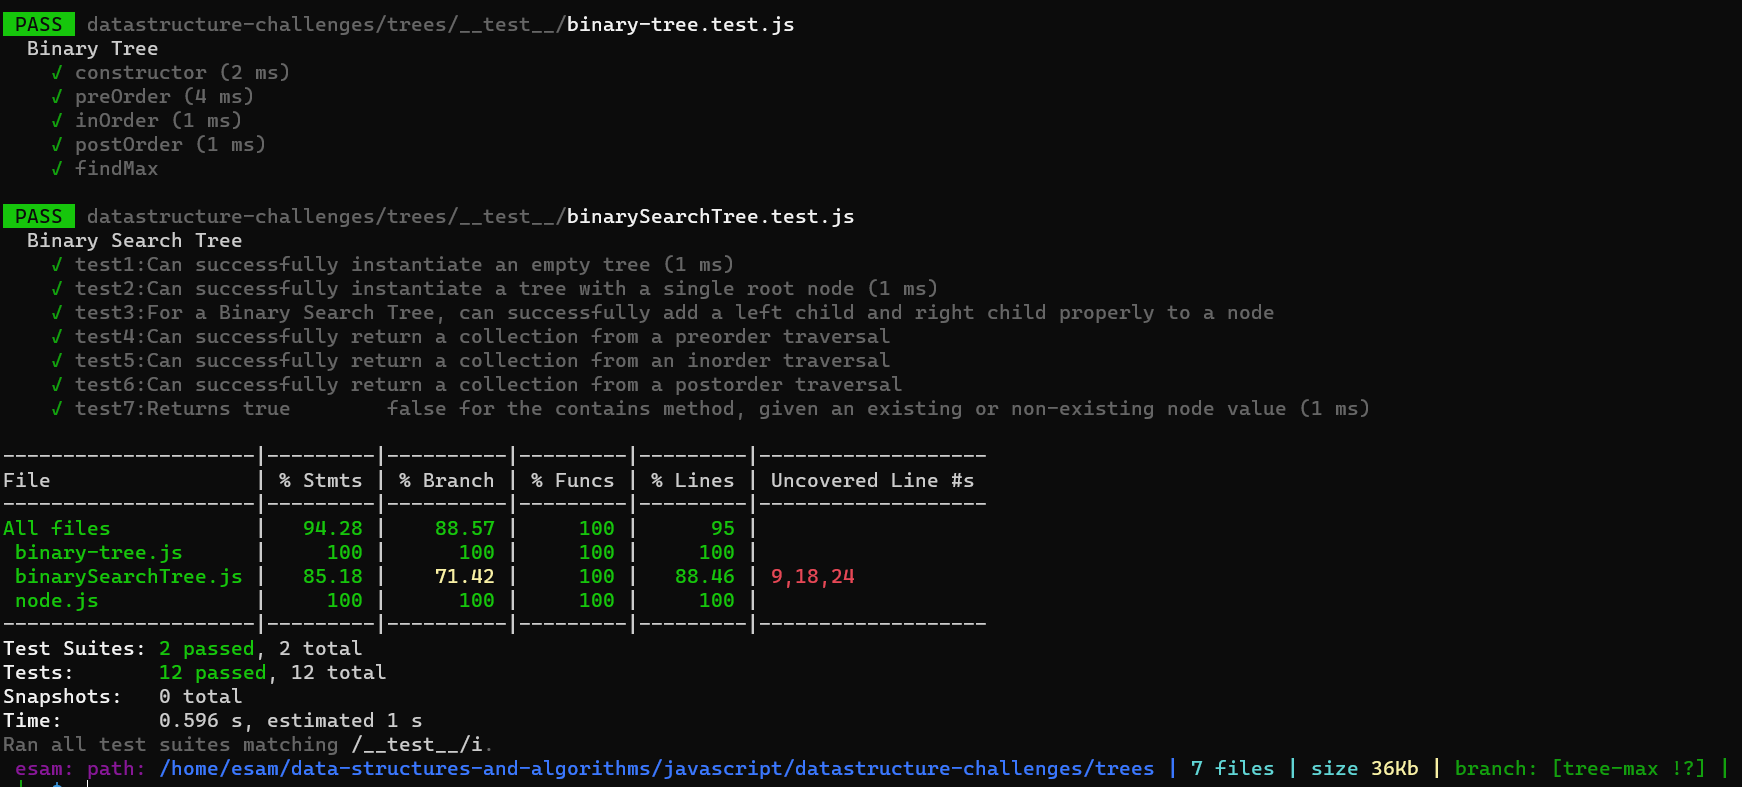
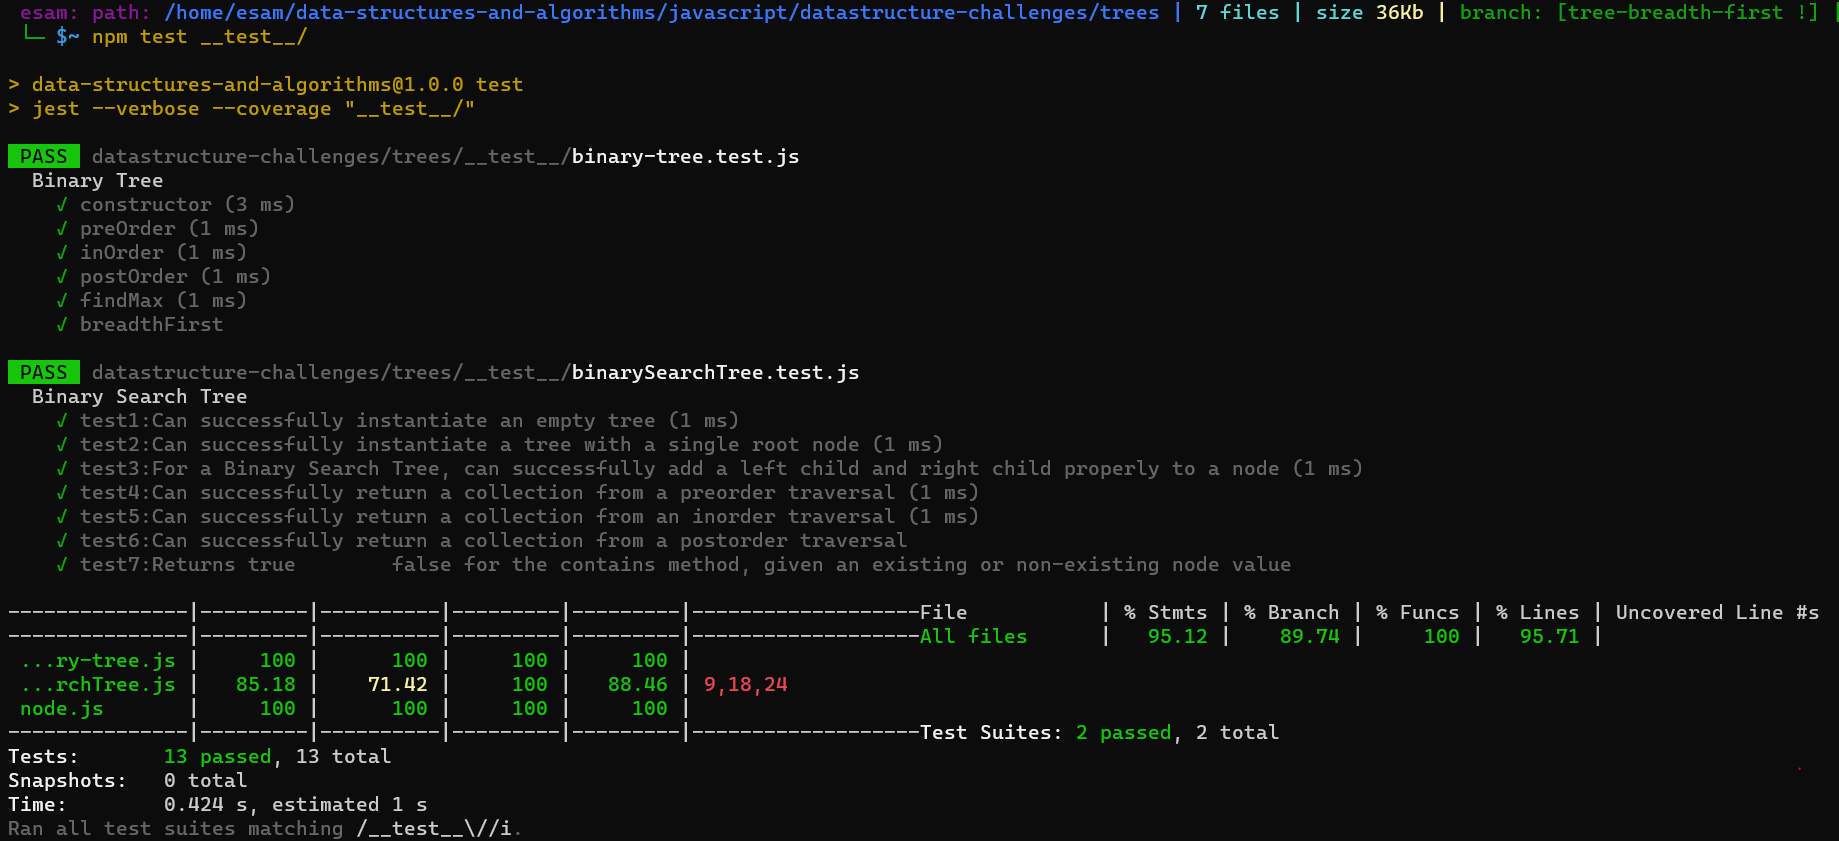
breadthFirst

diff --git a/javascript/datastructure-challenges/trees/index.js b/javascript/datastructure-challenges/trees/index.js
@@ -1,47 +1,10 @@
 'use strict';
 const BinaryTree = require('./binary-tree');
-const BinarySearchTree = require('./binarySearchTree');
+// const BinarySearchTree = require('./binarySearchTree');
 const Node = require('./node');
 
-////binary tree////////////////////////////////////////////////////////////////////////
-console.log('==================binary tree==================');
-let tree = null;
-
-let one = new Node(1);
-let two2 = new Node(2);
-let three = new Node(3);
-let four = new Node(4);
-let five5 = new Node(5);
-let six = new Node(6);
-let seven7 = new Node(7);
-let eight = new Node(8);
-let nine = new Node(9);
-
-one.left = two2;
-one.right = three;
-two2.left = six;
-six.right = seven7;
-seven7.left = eight;
-seven7.right = nine;
-three.left = four;
-three.right = five5;
-
-tree = new BinaryTree(one);
-console.log("max=",tree.findMax());
-
-let preOrder = tree.preOrder();
-console.log('pre order: ', preOrder);
-//pre order > 1 , 2 , 6 , 7 , 8 , 9 , 3 , 4 , 5
-
-let inOrder = tree.inOrder();
-console.log('in order: ', inOrder);
-//pre order > 6 , 8 , 7 , 9 , 2 , 1 , 4 , 3 , 5
-
-
-let postOrder = tree.postOrder();
-console.log('post order: ', postOrder);
-//pre order > 8 , 9 , 7 , 6 , 2 , 4 , 5 , 3 , 1
-///////////////////////////////
+// ////binary tree////////////////////////////////////////////////////////////////////////
+// console.log('==================binary tree==================');
 // let tree = null;
 
 // let one = new Node(1);
@@ -54,57 +17,94 @@ console.log('post order: ', postOrder);
 // let eight = new Node(8);
 // let nine = new Node(9);
 
-// one.left = seven7;
-// one.right = five5;
+// one.left = two2;
+// one.right = three;
+// two2.left = six;
+// six.right = seven7;
 // seven7.left = eight;
-// seven7.right = two2;
-// five5.left = four;
-// five5.right = six;
-// four.right = three;
-// four.left = nine;
-
+// seven7.right = nine;
+// three.left = four;
+// three.right = five5;
 
 // tree = new BinaryTree(one);
 // console.log("max=",tree.findMax());
 
+// let preOrder = tree.preOrder();
+// console.log('pre order: ', preOrder);
+// //pre order > 1 , 2 , 6 , 7 , 8 , 9 , 3 , 4 , 5
+
+// let inOrder = tree.inOrder();
+// console.log('in order: ', inOrder);
+// //pre order > 6 , 8 , 7 , 9 , 2 , 1 , 4 , 3 , 5
 
 
+// let postOrder = tree.postOrder();
+// console.log('post order: ', postOrder);
+// console.log('breadthFirst: ',tree.breadthFirst());
+// //expected[ 1, 2, 3, 6, 4, 5, 7, 8, 9]
+// //pre order > 8 , 9 , 7 , 6 , 2 , 4 , 5 , 3 , 1
+// ///////////////////////////////
+let tree = null;
 
-////binary search tree///////////////////////////////////////////////////////////////
-console.log('==================binary search tree==================');
-
-let ten = new Node(10);
-let five = new Node(5);
 let two = new Node(2);
+let two2 = new Node(2);
 let seven = new Node(7);
-let fivteen = new Node(15);
-let twelve = new Node(12);
-let seventeen = new Node(17);
+let five = new Node(5);
+let five5 = new Node(5);
+let six = new Node(6);
+let eleven = new Node(11);
+let nine = new Node(9);
+let four = new Node(4);
 
-ten.left = five;
-ten.right = fivteen;
-five.left = two;
-five.right = seven;
-fivteen.left = twelve;
-fivteen.right = seventeen;
+two.left = seven;
+two.right = five;
+seven.left = two2;
+seven.right = six;
+six.left = five5;
+six.right = eleven;
+five.right = nine;
+nine.left = four;
 
-let tree2 = null;
+tree = new BinaryTree(two);
+console.log("max=",tree.findMax());
+console.log('breadthFirst: ',tree.breadthFirst());
 
-tree2 = new BinarySearchTree(ten);
 
-tree2.add(18);
-tree2.add(4);
-console.log(tree2.contains(1));
-console.log(tree2.contains(4));
-console.log(tree2.contains(7));
-console.log('pre order: ', tree2.preOrder());
+// ////binary search tree///////////////////////////////////////////////////////////////
+// console.log('==================binary search tree==================');
 
-console.log("max=",tree2.findMax());
+// let ten = new Node(10);
+// let five = new Node(5);
+// let two = new Node(2);
+// let seven = new Node(7);
+// let fivteen = new Node(15);
+// let twelve = new Node(12);
+// let seventeen = new Node(17);
 
-const newTree = new BinarySearchTree();
-newTree.add(10);
-newTree.add(11);
-newTree.add(12);
+// ten.left = five;
+// ten.right = fivteen;
+// five.left = two;
+// five.right = seven;
+// fivteen.left = twelve;
+// fivteen.right = seventeen;
+
+// let tree2 = null;
+
+// tree2 = new BinarySearchTree(ten);
+
+// tree2.add(18);
+// tree2.add(4);
+// console.log(tree2.contains(1));
+// console.log(tree2.contains(4));
+// console.log(tree2.contains(7));
+// console.log('pre order: ', tree2.preOrder());
+
+// console.log("max=",tree2.findMax());
+
+// const newTree = new BinarySearchTree();
+// newTree.add(10);
+// newTree.add(11);
+// newTree.add(12);
 
 
 

diff --git a/javascript/datastructure-challenges/trees/binary-tree.js b/javascript/datastructure-challenges/trees/binary-tree.js
@@ -52,8 +52,31 @@ class BinaryTree {
     traverse(this.root);
     return max;
   }
+  //expected[ 1, 2, 3, 6, 4, 5, 7, 8, 9]
+  breadthFirst() {
+    let queue = [];
+    let result = [];
+    let node = this.root;
+    console.log({ node });
+    queue.push(node);
+    console.log({ queue });
+
+    while (queue.length) {
+      node = queue.shift();
+      console.log({ node });
+
+      result.push(node.value);
+      console.log({ result });
+
+      if (node.left) queue.push(node.left);
+      console.log({ node });
+
+      if (node.right) queue.push(node.right);
+      console.log({ node });
+
+    }
+    return result;
+  }
+
 }
-
-
-
 module.exports = BinaryTree;

diff --git a/javascript/datastructure-challenges/trees/__test__/binarySearchTree.test.js b/javascript/datastructure-challenges/trees/__test__/binarySearchTree.test.js
@@ -53,7 +53,7 @@ describe('Binary Search Tree', () => {
     let postOrder = tree2.postOrder();
     expect(postOrder).toEqual(expectedOutput);
   });
-  test('test7:Returns true	false for the contains method, given an existing or non-existing node value', () => {
+  test('test7:Returns true or false for the contains method, given an existing or non-existing node value', () => {
     expect(tree2.contains(7)).toBe(true);
     expect(tree2.contains(13)).toBe(false);
   });

diff --git a/javascript/datastructure-challenges/trees/__test__/binary-tree.test.js b/javascript/datastructure-challenges/trees/__test__/binary-tree.test.js
@@ -51,4 +51,7 @@ describe('Binary Tree', () => {
   test('findMax', () => {
     expect(tree.findMax()).toEqual(9);
   });
+  test('breadthFirst', () => {
+    expect(tree.breadthFirst()).toEqual([1, 2, 3, 6, 4, 5, 7, 8, 9]);
+  });
 });

diff --git a/javascript/datastructure-challenges/trees/README.md b/javascript/datastructure-challenges/trees/README.md
@@ -1,5 +1,8 @@
 # Trees
 
+## Whiteboard for breadthFirst
+![img](./assets/breadthFirst.PNG)
+
 ## Whiteboard for findMax
 ![img](./assets/findMax.PNG)
 
